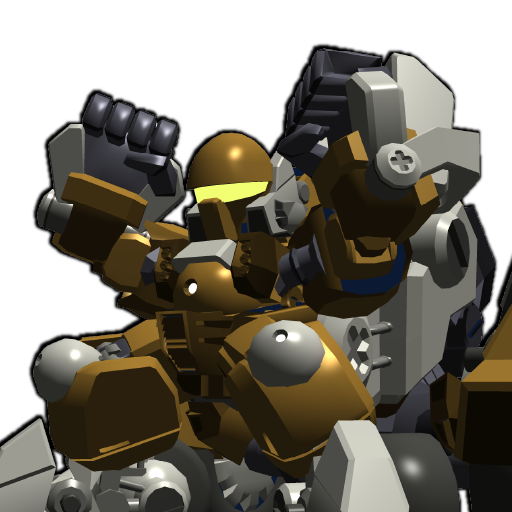
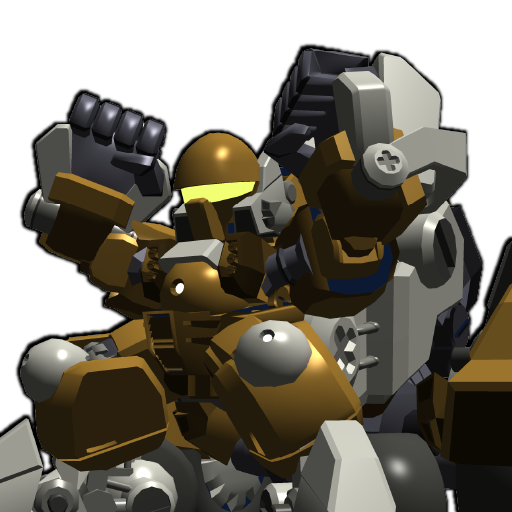
グランドーザのバーストアイコンを調整した

diff --git a/src/js/game-object/burst-button/view/gran-dozer-icon.ts b/src/js/game-object/burst-button/view/gran-dozer-icon.ts
@@ -12,7 +12,7 @@ export const createGranDozerIcon = (resources: Resources): ArmdozerIcon =>
   new SimpleArmdozerIcon({
     resources,
     size: 420,
-    x: -15,
-    y: 150,
+    x: 0,
+    y: 190,
     textureId: TEXTURE_IDS.GRAN_DOZER_BURST_BUTTON_ICON,
   });
